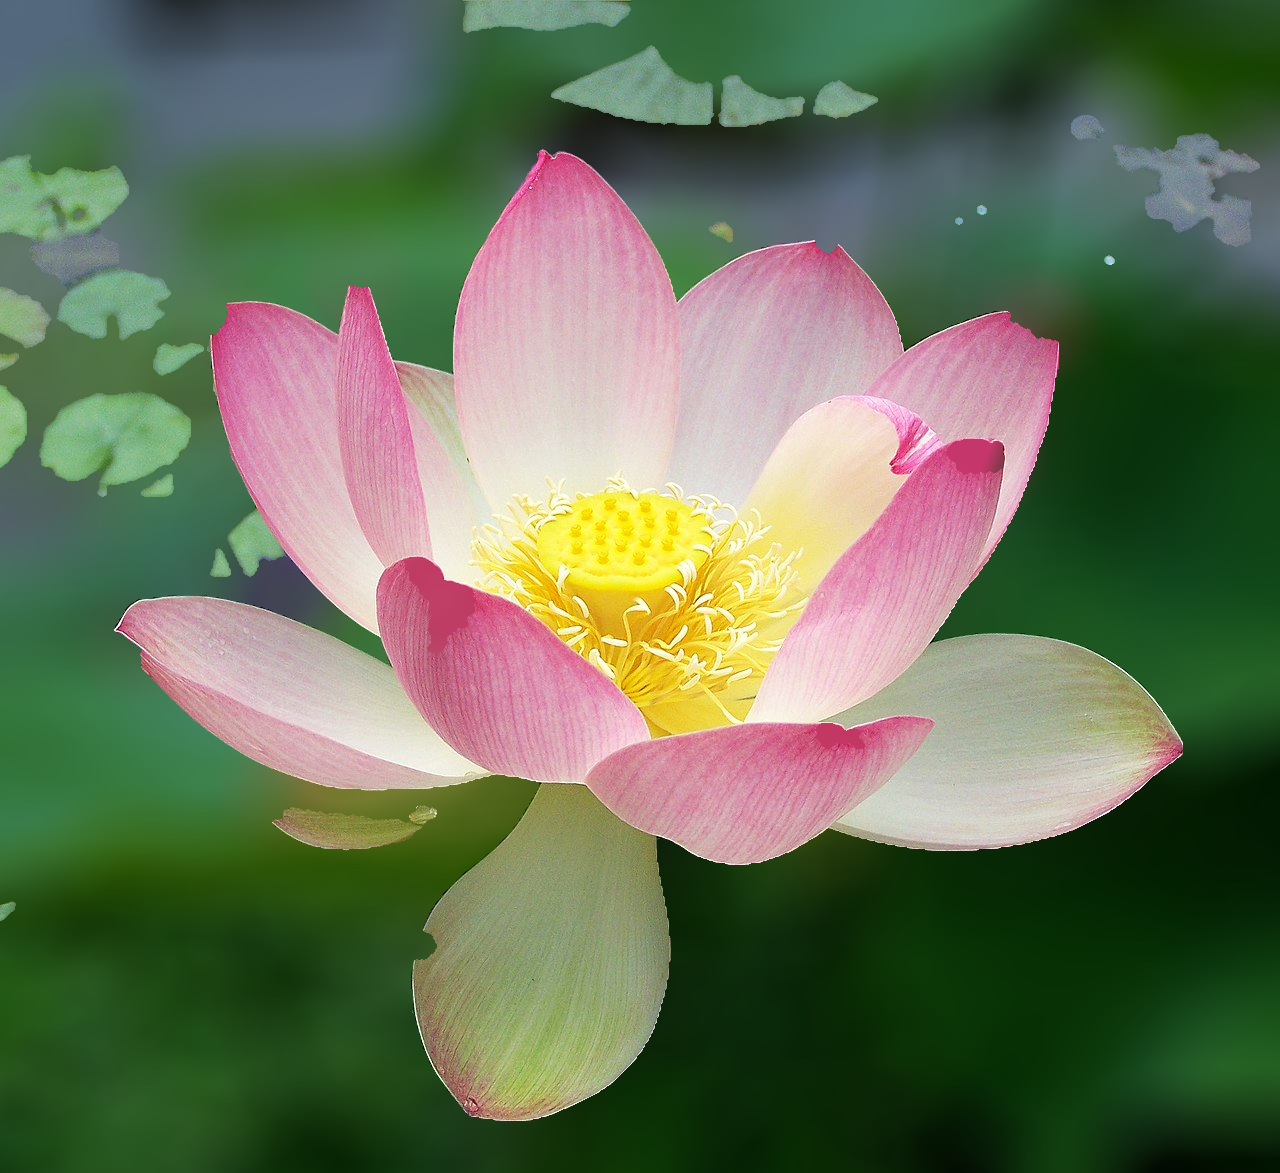
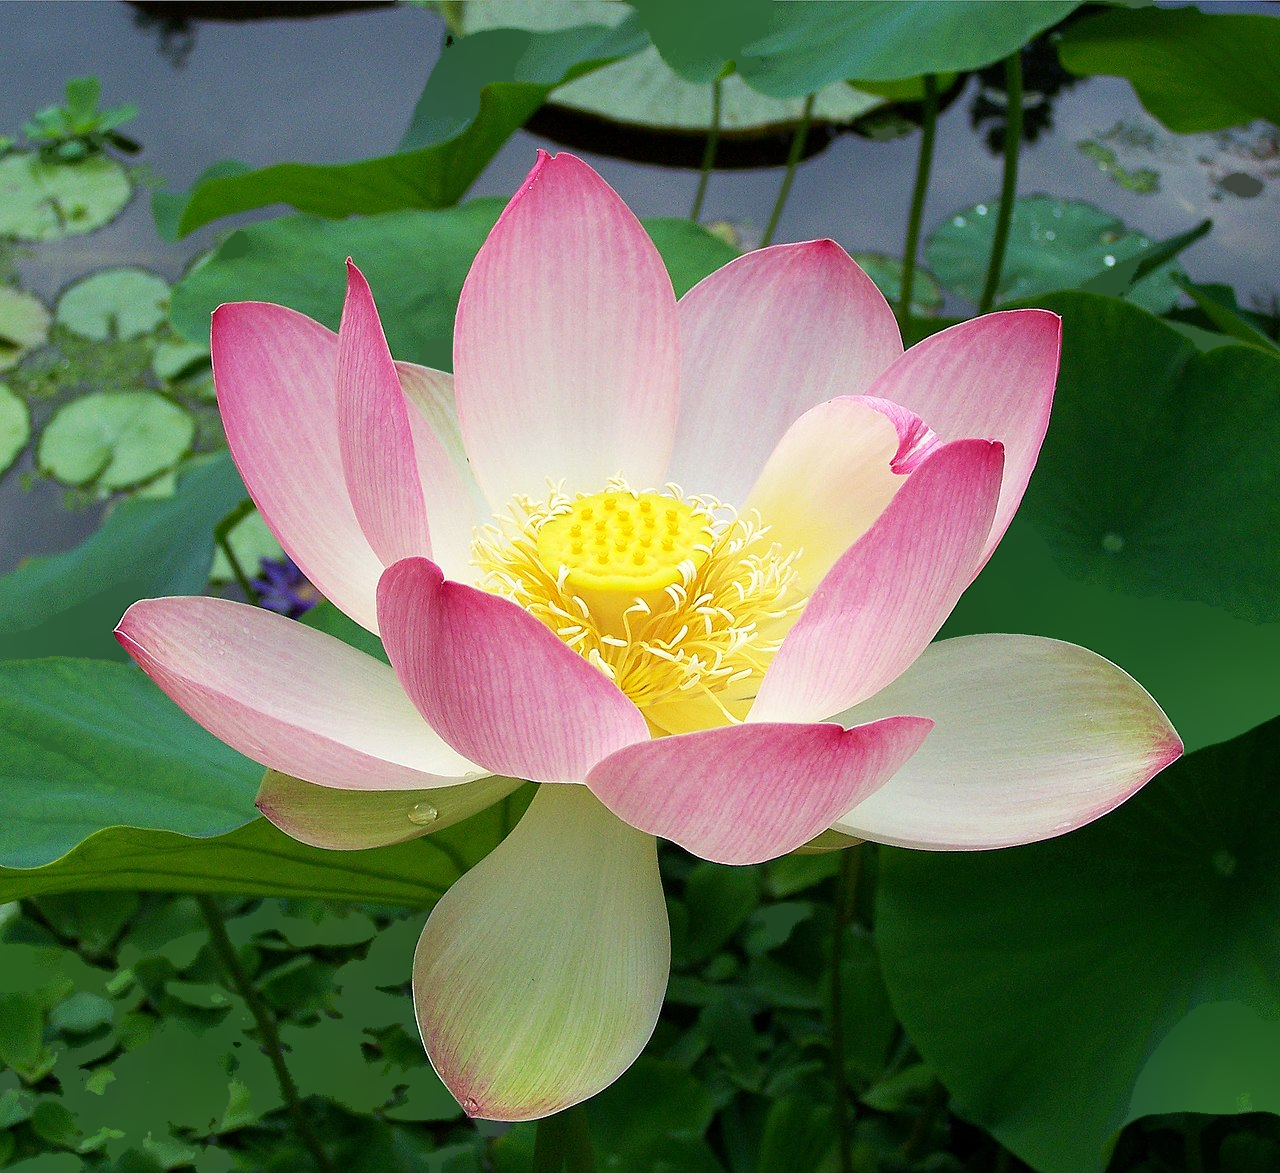
2nd draft

diff --git a/q5.py b/q5.py
@@ -2,61 +2,18 @@ import os
 import imageio.v3 as iio
 import numpy as np
 import cv2
+import matplotlib.pyplot as plt
 
-def mean_shift_segmentation(img, spatial_radius=15, color_radius=30, max_iter=10):
-
-    h, w, c = img.shape
-    grid_y, grid_x = np.mgrid[0:h, 0:w]
-    
-    features = np.zeros((h, w, 5), dtype=np.float32)
-    features[:, :, 0:3] = img.astype(np.float32)
-    features[:, :, 3] = grid_x.astype(np.float32)
-    features[:, :, 4] = grid_y.astype(np.float32)
-
-    shifted_features = np.copy(features)
-
-    step = 2 
-    for y in range(0, h, step):
-        for x in range(0, w, step):
-            curr_pt = features[y, x].copy()
-            
-            for _ in range(max_iter):
-                min_x = max(0, int(curr_pt[3] - spatial_radius))
-                max_x = min(w, int(curr_pt[3] + spatial_radius + 1))
-                min_y = max(0, int(curr_pt[4] - spatial_radius))
-                max_y = min(h, int(curr_pt[4] + spatial_radius + 1))
-                
-                window = features[min_y:max_y, min_x:max_x]
-                
-                color_dist = np.linalg.norm(window[:, :, 0:3] - curr_pt[0:3], axis=2)
-                spatial_dist = np.linalg.norm(window[:, :, 3:5] - curr_pt[3:5], axis=2)
-                
-                mask = (color_dist <= color_radius) & (spatial_dist <= spatial_radius)
-                
-                if not np.any(mask):
-                    break
-                    
-                new_pt = np.mean(window[mask], axis=0)
-                
-                if np.linalg.norm(new_pt - curr_pt) < 0.5:
-                    break
-                curr_pt = new_pt
-
-            shifted_features[max(0, y-1):min(h, y+2), max(0, x-1):min(w, x+2), 0:3] = curr_pt[0:3]
-
-    segmented_img = shifted_features[:, :, 0:3].astype(np.uint8)
-    
-    gray = cv2.cvtColor(segmented_img, cv2.COLOR_RGB2GRAY)
-    _, mask = cv2.threshold(gray, 0, 255, cv2.THRESH_BINARY + cv2.THRESH_OTSU)
-    
-    if mask[0, 0] == 255 and mask[0, -1] == 255:
-        mask = cv2.bitwise_not(mask)
-
-    kernel = cv2.getStructuringElement(cv2.MORPH_ELLIPSE, (7, 7))
-    mask = cv2.morphologyEx(mask, cv2.MORPH_CLOSE, kernel)
-    mask = cv2.morphologyEx(mask, cv2.MORPH_OPEN, kernel)
-    
-    return (mask > 0).astype(np.uint8)
+def mean_shift_segmentation(img, spatial_radius=15, color_radius=30):
+    img_bgr = cv2.cvtColor(img, cv2.COLOR_RGB2BGR)
+    segmented_bgr = cv2.pyrMeanShiftFiltering(
+        img_bgr,
+        sp=spatial_radius,
+        sr=color_radius,
+        maxLevel=1
+    )
+    segmented_rgb = cv2.cvtColor(segmented_bgr, cv2.COLOR_BGR2RGB)
+    return segmented_rgb
 
 def get_manual_mask(img):
     h, w = img.shape[:2]
@@ -86,7 +43,7 @@ def apply_bokeh_blur(img, fg_mask, diameter):
     kernel = create_disc_kernel(diameter)
     k_dim = kernel.shape[0]
     r = k_dim // 2
-    
+
     padded_img = cv2.copyMakeBorder(img, r, r, r, r, cv2.BORDER_CONSTANT, value=0)
     padded_bg = cv2.copyMakeBorder(bg_mask, r, r, r, r, cv2.BORDER_CONSTANT, value=0)
     
@@ -106,7 +63,6 @@ def apply_bokeh_blur(img, fg_mask, diameter):
         conv_ch = cv2.filter2D(img_float[:, :, ch], -1, norm_kernel)
         output_bg[:, :, ch][fast_indices] = conv_ch[fast_indices]
         
-    # Dynamic re-weighted filtering near boundaries
     boundary_y, boundary_x = np.where((dist_map < r) & (bg_mask == 1))
     
     for y, x in zip(boundary_y, boundary_x):
@@ -130,42 +86,80 @@ def apply_bokeh_blur(img, fg_mask, diameter):
         
     return np.clip(final_result, 0, 255).astype(np.uint8)
 
+input_dir="./data/bokeh", output_dir="./output_q5"
+os.makedirs(output_dir, exist_ok=True)
 
-def process_and_save_all(input_dir="./data/bokeh", output_dir="./output_q5"):
-    os.makedirs(output_dir, exist_ok=True)
+images_config = [
+    {"filename": "deep.png", "is_manual": True},
+    {"filename": "lotus.png", "is_manual": False},
+    {"filename": "marigold.png", "is_manual": False}
+]
+for cfg in images_config:
+    in_path = os.path.join(input_dir, cfg["filename"])
     
-    images_config = [
-        {"filename": "deep.png", "is_manual": True},
-        {"filename": "lotus.png", "is_manual": False},
-        {"filename": "marigold.png", "is_manual": False}
-    ]
+    if not os.path.exists(in_path):
+        print(f"Skipping {in_path}: File not found.")
+        continue
+    print(f"Processing {cfg['filename']}...")
     
-    for cfg in images_config:
-        in_path = os.path.join(input_dir, cfg["filename"])
-        
-        if not os.path.exists(in_path):
-            print(f"Skipping {in_path}: File not found.")
-            continue
-            
-        print(f"Processing {cfg['filename']}...")
-        
-        img_rgb = iio.imread(in_path)        
-        if cfg["is_manual"]:
-            fg_mask = get_manual_mask(img_rgb)
-        else:
-            fg_mask = mean_shift_segmentation(img_rgb, spatial_radius=15, color_radius=30)
-            
-        bokeh_50 = apply_bokeh_blur(img_rgb, fg_mask, diameter=50)
-        bokeh_100 = apply_bokeh_blur(img_rgb, fg_mask, diameter=100)
-        
-        base_name = os.path.splitext(cfg["filename"])[0]
-        out_50_path = os.path.join(output_dir, f"{base_name}_bokeh_50.png")
-        out_100_path = os.path.join(output_dir, f"{base_name}_bokeh_100.png")
-        
-        iio.imwrite(out_50_path, bokeh_50)
-        iio.imwrite(out_100_path, bokeh_100)
-        
-        print(f"Saved: {out_50_path}")
-        print(f"Saved: {out_100_path}")
+    img_rgb = iio.imread(in_path)        
+    if cfg["is_manual"]:
+        fg_mask = get_manual_mask(img_rgb)
+    else:
+        segmented_img = mean_shift_segmentation(
+            img_rgb,
+            spatial_radius=15,
+            color_radius=30
+        )
+        border_width = 10
 
-process_and_save_all(input_dir="./data/bokeh", output_dir="./output_q5")
+        border_pixels = np.concatenate([
+            segmented_img[:border_width, :, :].reshape(-1, 3),
+            segmented_img[-border_width:, :, :].reshape(-1, 3),
+            segmented_img[:, :border_width, :].reshape(-1, 3),
+            segmented_img[:, -border_width:, :].reshape(-1, 3)
+        ])
+        background_color = np.mean(border_pixels, axis=0)
+
+        color_distance = np.linalg.norm(
+            segmented_img.astype(np.float32) -
+            background_color.astype(np.float32),
+            axis=2
+        )
+        fg_mask = (color_distance > 30).astype(np.uint8)
+        
+    bokeh_50 = apply_bokeh_blur(img_rgb, fg_mask, diameter=50)
+    bokeh_100 = apply_bokeh_blur(img_rgb, fg_mask, diameter=100)
+    
+    base_name = os.path.splitext(cfg["filename"])[0]
+    mask_path = os.path.join(
+        output_dir,
+        f"{base_name}_binary.png"
+    )
+    iio.imwrite(
+        mask_path,
+        (fg_mask * 255).astype(np.uint8)
+    )
+    fig, axes = plt.subplots(1, 3, figsize=(18, 6))
+    axes[0].imshow(img_rgb)
+    axes[0].set_title("Original Image")
+    axes[0].axis("off")
+    axes[1].imshow(bokeh_50)
+    axes[1].set_title("Bokeh Blur (Diameter = 50)")
+    axes[1].axis("off")
+    axes[2].imshow(bokeh_100)
+    axes[2].set_title("Bokeh Blur (Diameter = 100)")
+    axes[2].axis("off")
+    plt.tight_layout()
+    display_path = os.path.join( output_dir, f"{base_name}_comparison.png" )
+    plt.savefig(display_path, bbox_inches="tight", dpi=300)
+    plt.show()
+    plt.close(fig)
+    out_50_path = os.path.join(output_dir, f"{base_name}_bokeh_50.png")
+    out_100_path = os.path.join(output_dir, f"{base_name}_bokeh_100.png")
+    
+    iio.imwrite(out_50_path, bokeh_50)
+    iio.imwrite(out_100_path, bokeh_100)
+    
+    print(f"Saved: {out_50_path}")
+    print(f"Saved: {out_100_path}")

diff --git a/q4.py b/q4.py
@@ -8,7 +8,7 @@ def compute_structure_tensor(img, sigma_d=1.0, sigma_i=1.5):
         gray = 0.2989 * img[:, :, 0] + 0.5870 * img[:, :, 1] + 0.1140 * img[:, :, 2]
     else:
         gray = img.astype(np.float64)
-    
+
     if gray.max() > 1.0:
         gray /= 255.0
     Ix = gaussian_filter(gray, sigma=sigma_d, order=(0, 1))
@@ -60,14 +60,15 @@ def detect_corners(response, nms_size=5, threshold=0.01):
     binary_map = (nms_map > 0).astype(np.uint8)
     return nms_map, binary_map
 
-def harris_stephens_edge_detection(C_harris, nms_size=3, edge_threshold=-0.001):
+def harris_stephens_edge_detection(C_harris, nms_size=3, edge_threshold=0.0001):
 
-    edgeness = np.where(C_harris < 0, -C_harris, 0.0)    
-    nms_edge = non_maximum_suppression_2d(edgeness, neighborhood_size=nms_size)    
-    thresh_val = abs(edge_threshold)
-    binary_edge = (nms_edge > thresh_val).astype(np.uint8)
-    
-    return edgeness, nms_edge, binary_edge
+    edgeness = np.maximum(-C_harris, 0.0)
+    nms_edge_strength = non_maximum_suppression_2d(
+        edgeness,
+        neighborhood_size=nms_size
+    )
+    binary_edge = (nms_edge_strength > edge_threshold).astype(np.uint8)
+    return nms_edge_strength, binary_edge
 
 def normalize_and_convert_u8(img_float):
 
@@ -111,9 +112,7 @@ def process_image(img_path, output_dir, params):
         C_shitomasi, nms_size=params['nms_size'], threshold=params['st_thresh']
     )
 
-    edgeness, edge_nms, edge_binary = harris_stephens_edge_detection(
-        C_harris, nms_size=params['edge_nms_size'], edge_threshold=params['edge_thresh']
-    )
+    edge_nms_C, edge_binary = harris_stephens_edge_detection( C_harris, nms_size=params['edge_nms_size'], edge_threshold=params['edge_thresh'] )
 
     orig_u8 = normalize_and_convert_u8(gray)
     harris_corners_overlay = draw_pixels_on_image(orig_u8, harris_binary, color_rgb=[0, 0, 0])      # Black corners
@@ -130,7 +129,7 @@ def process_image(img_path, output_dir, params):
     iio.imwrite(os.path.join(output_dir, f"{base_name}_6_shi_tomasi_binary.png"), (st_binary * 255).astype(np.uint8))
     iio.imwrite(os.path.join(output_dir, f"{base_name}_7_harris_corners_drawn.png"), harris_corners_overlay)
     iio.imwrite(os.path.join(output_dir, f"{base_name}_7_shi_tomasi_corners_drawn.png"), st_corners_overlay)
-    iio.imwrite(os.path.join(output_dir, f"{base_name}_8_harris_edgeness_nms.png"), normalize_and_convert_u8(edge_nms))
+    iio.imwrite(os.path.join(output_dir, f"{base_name}_8_harris_edgeness_nms.png"), normalize_and_convert_u8(edge_nms_C) )
     iio.imwrite(os.path.join(output_dir, f"{base_name}_9_harris_edge_binary.png"), (edge_binary * 255).astype(np.uint8))
     iio.imwrite(os.path.join(output_dir, f"{base_name}_10_harris_edges_drawn.png"), harris_edges_overlay)
 

diff --git a/q1.py b/q1.py
@@ -5,9 +5,7 @@ import matplotlib.pyplot as plt
 from scipy.ndimage import gaussian_filter
 
 def unsharp_mask(image, sigma=1.0, s=1.0):
-    """
-    Implements unsharp masking: Output = F + s * (F - Gauss * F)
-    """
+
     image_float = image.astype(np.float64)
     
     if image_float.ndim == 3:
@@ -20,17 +18,15 @@ def unsharp_mask(image, sigma=1.0, s=1.0):
     mask = image_float - blurred
     sharpened = image_float + s * mask
     
-    # Clip and round RGB images to integer uint8
     if image.ndim == 3:
-        sharpened = np.clip(sharpened, 0, 255).astype(image.dtype)
+        input_min = np.min(image_float)
+        input_max = np.max(image_float)
+        sharpened = np.clip(sharpened, input_min, input_max).astype(np.uint8)
         
     return sharpened
 
 def process_and_save(image_path, output_dir=".", sigma_val=1.5, s1=1.0, s2=2.5):
-    """
-    Loads an image, computes two sharpened versions, and saves each image 
-    separately to the specified output directory.
-    """
+
     os.makedirs(output_dir, exist_ok=True)
     base_name = os.path.splitext(os.path.basename(image_path))[0]
     
@@ -56,7 +52,6 @@ def process_and_save(image_path, output_dir=".", sigma_val=1.5, s1=1.0, s2=2.5):
         save_path = os.path.join(output_dir, filename)
         
         if is_gray:
-            # Create a dedicated figure to include colorbar and 256-level gray colormap
             fig, ax = plt.subplots(figsize=(6, 6))
             im = ax.imshow(data, cmap='gray', vmin=vmin, vmax=vmax)
             ax.set_title(title)
@@ -65,12 +60,10 @@ def process_and_save(image_path, output_dir=".", sigma_val=1.5, s1=1.0, s2=2.5):
             plt.savefig(save_path, bbox_inches='tight', dpi=300)
             plt.close(fig)
         else:
-            # Save standard RGB image directly
             iio.imwrite(save_path, data)
             
         print(f"Saved: {save_path}")
 
-# --- Example Run ---
 image_paths = [
     "data/sharpen/moon.png",
     "data/sharpen/peacock.png",

diff --git a/q2.py b/q2.py
@@ -68,14 +68,45 @@ def compute_masked_ncc_channel_fast(image_channel, template_channel, mask):
 def resize_image(img, new_shape):
     h, w = new_shape[:2]
     orig_h, orig_w = img.shape[:2]
-    
-    r_indices = (np.linspace(0, orig_h - 1, h)).astype(int)
-    c_indices = (np.linspace(0, orig_w - 1, w)).astype(int)
-    
+
+    y = np.linspace(0, orig_h - 1, h)
+    x = np.linspace(0, orig_w - 1, w)
+
+    y0 = np.floor(y).astype(int)
+    x0 = np.floor(x).astype(int)
+    y1 = np.minimum(y0 + 1, orig_h - 1)
+    x1 = np.minimum(x0 + 1, orig_w - 1)
+    wy = y - y0
+    wx = x - x0
+
     if img.ndim == 3:
-        return img[np.ix_(r_indices, c_indices, np.arange(img.shape[2]))]
+        result = np.empty((h, w, img.shape[2]), dtype=np.float64)
+
+        for c in range(img.shape[2]):
+            Ia = img[y0[:, None], x0[None, :], c]
+            Ib = img[y0[:, None], x1[None, :], c]
+            Ic = img[y1[:, None], x0[None, :], c]
+            Id = img[y1[:, None], x1[None, :], c]
+
+            result[:, :, c] = (
+                Ia * (1 - wy[:, None]) * (1 - wx[None, :]) +
+                Ib * (1 - wy[:, None]) * wx[None, :] +
+                Ic * wy[:, None] * (1 - wx[None, :]) +
+                Id * wy[:, None] * wx[None, :]
+            )
     else:
-        return img[np.ix_(r_indices, c_indices)]
+        Ia = img[y0[:, None], x0[None, :]]
+        Ib = img[y0[:, None], x1[None, :]]
+        Ic = img[y1[:, None], x0[None, :]]
+        Id = img[y1[:, None], x1[None, :]]
+
+        result = (
+            Ia * (1 - wy[:, None]) * (1 - wx[None, :]) +
+            Ib * (1 - wy[:, None]) * wx[None, :] +
+            Ic * wy[:, None] * (1 - wx[None, :]) +
+            Id * wy[:, None] * wx[None, :]
+        )
+    return result
 
 scene = imageio.imread('data/templateMatch/parking.png')
 template = imageio.imread('data/templateMatch/templateNoPark.png')

diff --git a/q3.py b/q3.py
@@ -54,7 +54,7 @@ def canny_edge_detector(img, sigma=1.0, threshold_low=0.05, threshold_high=0.20)
                     stack.append((nr, nc))
     return edges.astype(np.uint8) * 255
 
-def process_and_save(image_path, sigma, low_thresh, high_thresh, output_dir="output_c"):
+def process_and_save(image_path, sigma, low_thresh, high_thresh, output_dir="output_q3"):
 
     os.makedirs(output_dir, exist_ok=True)    
     img = iio.imread(image_path)
